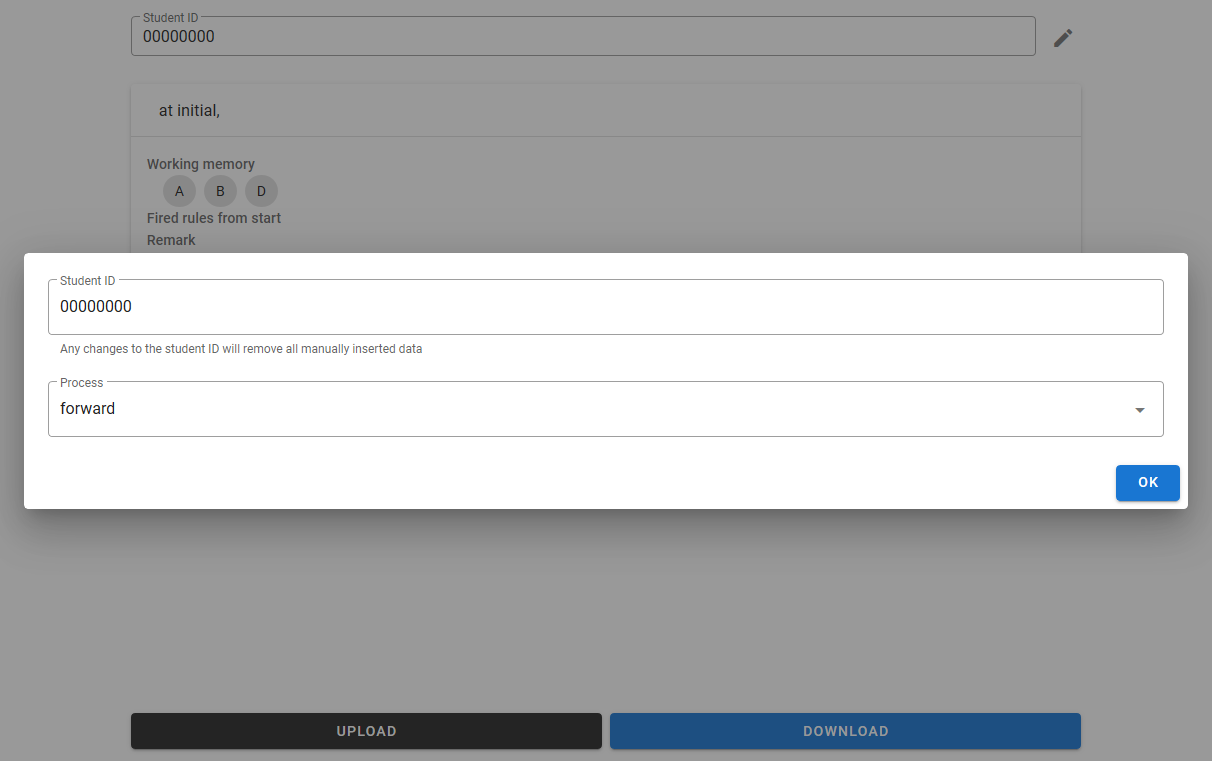
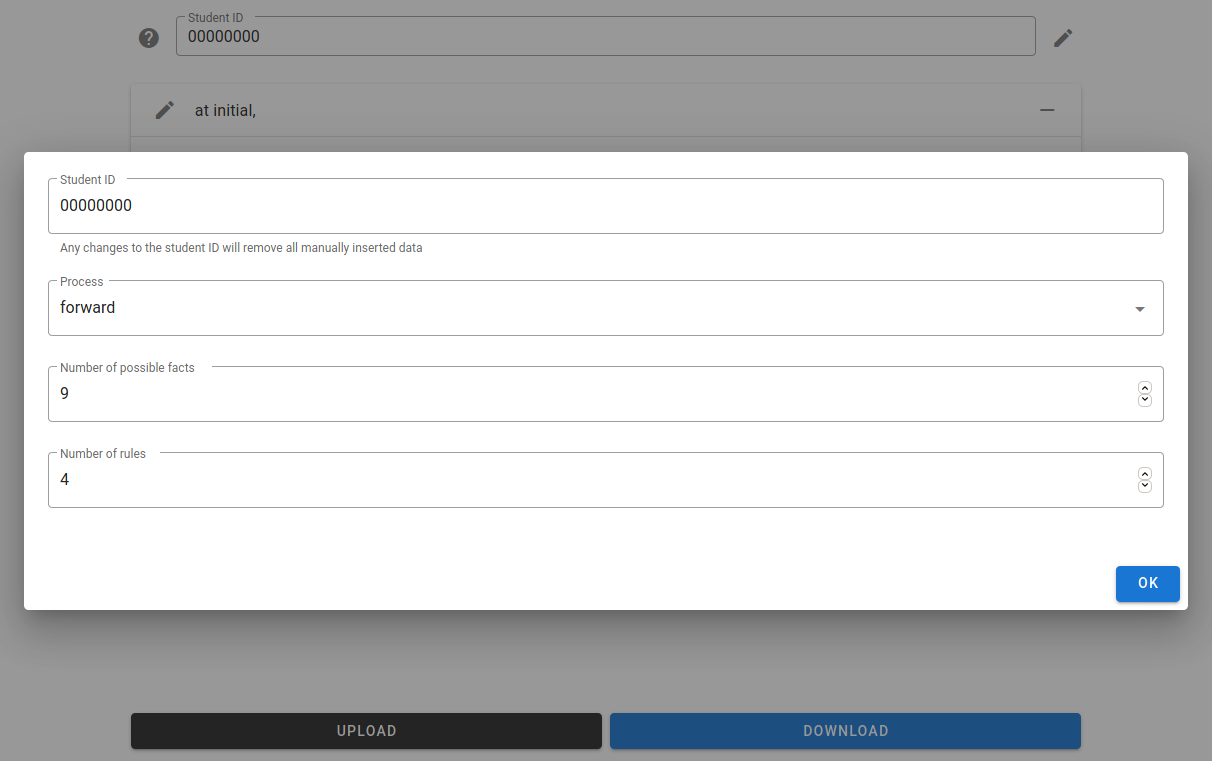
update forward/backward chaining platform for editable initial, number of facts, and number of rules

diff --git a/forward-backward-chaining/index.html b/forward-backward-chaining/index.html
@@ -1,1 +1,1 @@
-<!DOCTYPE html><html><head> <meta charset="utf-8"> <link href="https://fonts.googleapis.com/css?family=Roboto:100,300,400,500,700,900" rel="stylesheet"> <link href="https://cdn.jsdelivr.net/npm/@mdi/font@5.x/css/materialdesignicons.min.css" rel="stylesheet"> <link href="https://cdn.jsdelivr.net/npm/vuetify@2.x/dist/vuetify.min.css" rel="stylesheet"> <meta name="viewport" content="width=device-width, initial-scale=1, maximum-scale=1, user-scalable=no, minimal-ui"> <title>Forward/Backward chaining</title></head><body> <div id="app"> <v-app> <v-main> <v-container fluid style="width: 100vw; height: 100vh" class="d-flex flex-column align-center"> <v-sheet width="80%" height="100%" class="d-flex flex-column"> <v-row class="flex-grow-0" no-gutters> <v-col> <v-text-field label="Student ID" v-model="studentId" readonly outlined hide-details flat dense class="align-center"> <template v-slot:append-outer> <v-btn icon @click="studentId_overlay=true" title="edit settings"><v-icon>mdi-pencil</v-icon></v-btn> </template> <template v-slot:prepend> <v-btn icon href="./help" target="_blank" title="documentation"><v-icon>mdi-help-circle</v-icon></v-btn> </template> </v-text-field> </v-col> </v-row> <v-row class="" style="overflow:auto"> <v-col> <template v-for="d,i in data"> <v-row :key="i"><v-col> <v-card> <v-card-title class="subtitle-1 py-0"> <v-btn icon title="edit this step" @click="edit_data.index=i; edit_data.overlay=true" v-if="i !==0 || initial.editable"><v-icon>mdi-pencil</v-icon></v-btn> <v-col>{{get_data_label(i)}}</v-col> <v-btn icon title="remove this step" @click="data.splice(i,1)" v-if="i !==0 || initial.editable"><v-icon>mdi-minus</v-icon></v-btn> </v-card-title> <v-divider></v-divider> <v-card-text> <template v-for="el,ei in data_details" v-if="el.available.includes(process.value)"> <v-row :key="`${i}-${ei}`" no-gutters><v-col class="subtitle-2">{{el.label}}</v-col></v-row> <v-row v-if="el.type.includes('text')" no-gutters> <v-col class="pl-3">{{d[ei]}}</v-col> </v-row> <v-row v-if="el.type.includes('choice')" no-gutters> <v-col class="pl-3"> <v-chip class="mx-1" v-for="val,vi in d[ei]" :key="`${i}-${ei}-${vi}`">{{val}}</v-chip> </v-col> </v-row> <template v-if="el.type=='edit-edit pairs'"> <v-row v-for="val,vi in d[ei]" :key="`${i}-${ei}-${vi}`"> <v-col v-if="el.labelFunction" md="2" class="text-end my-0 py-1">{{el.labelFunction(vi)}}</v-col> <v-col v-if="el.displayFunction" class="my-0 py-1">{{el.displayFunction(val)}}</v-col> </v-row> </template> </template> </v-card-text> </v-card> </v-col></v-row> <v-row><v-col><v-btn block @click="insert_new_data_entry(i+1)"><v-icon>mdi-plus</v-icon></v-btn></v-col></v-row> </template> </v-col> </v-row> <v-row class="flex-grow-0" no-gutters> <v-col class="mr-2"><v-btn block color="" @click="upload.overlay=true" dark>Upload</v-btn></v-col> <v-col><v-btn block color="primary" @click="download">Download</v-btn></v-col> </v-row> </v-sheet> <v-dialog v-model="studentId_overlay"> <v-card> <v-card-title></v-card-title> <v-card-text> <v-text-field class="mb-4" label="Student ID" v-model="studentId" outlined persistent-hint hint="Any changes to the student ID will remove all manually inserted data"></v-text-field> <v-select label="Process" v-model="process.value" :items="process.options" hide-details outlined></v-select> </v-card-text> <v-card-actions> <v-spacer></v-spacer> <v-btn color="primary" @click="studentId_overlay=false">Ok</v-btn> </v-card-actions> </v-card> </v-dialog> <v-dialog v-model="edit_data.overlay"> <v-card v-if="edit_data.index < data.length"> <v-card-title>{{get_data_label(edit_data.index)}}</v-card-title> <v-card-text> <template v-for="el,ei in data_details" v-if="el.available.includes(process.value)"> <v-row> <v-col cols="auto" class="subtitle-2">{{el.label}}</v-col> <v-col> <v-tooltip right> <template v-slot:activator="{on, attrs}"> <v-icon icon v-on="on" v-bind="attrs" small>mdi-help-circle-outline</v-icon> </template> <span>{{el.docstring}}</span> </v-tooltip> </v-col> </v-row> <v-text-field v-if="el.type=='text'" v-model="data[edit_data.index][ei]" outlined hide-details solo flat></v-text-field> <v-textarea v-if="el.type=='textarea'" v-model="data[edit_data.index][ei]" outlined hide-details solo flat></v-textarea> <v-select v-if="el.type=='unrepeatable choice'" v-model="data[edit_data.index][ei]" :items="el.options" multiple hide-details outlined deletable-chips chips solo flat></v-select> <template v-if="el.type=='repeatable choice'"> <v-row v-for="ci in data[edit_data.index][ei].length" :key="`editdata-${ei}-${ci}`" no-gutters> <v-col><v-select :items="el.options" v-model="data[edit_data.index][ei][ci-1]" hide-details outlined solo flat dense class="align-center"> <template v-slot:append-outer> <v-btn icon @click="data[edit_data.index][ei].splice(ci-1,1)"><v-icon>mdi-minus</v-icon></v-btn> </template> <template v-slot:prepend> <v-btn icon @click="data[edit_data.index][ei].splice(ci-1,0,el.options[0])"><v-icon>mdi-plus</v-icon></v-btn> </template> </v-select></v-col> </v-row> <v-row><v-col><v-btn block @click="data[edit_data.index][ei].push(el.options[0])"><v-icon>mdi-plus</v-icon></v-btn></v-col></v-row> </template> <template v-if="el.type=='edit-edit pairs'"> <v-row v-for="ci in data[edit_data.index][ei].length" :key="`editdata-${ei}-${ci}`"> <v-col v-if="el.labelFunction" md="2" lg="1" class="text-end">{{el.labelFunction(ci-1)}}</v-col> <v-col v-for="indivType,ii in el.types" class="my-0 py-1" :key="`editdata-${ei}-${ci}-${ii}`"> <v-select v-if="indivType.includes('choice')" :items="el.options[ii]" v-model="data[edit_data.index][ei][ci-1][ii]" hide-details outlined solo flat dense class="align-center"> <template v-slot:prepend v-if="el.pretext.length > 0 && ii < el.pretext.length"> <v-col class="ma-0 pa-0">{{el.pretext[ii]}}</v-col> </template> </v-select> </v-col> <v-col cols="auto"><v-btn icon @click="data[edit_data.index][ei].splice(ci-1,1)"><v-icon>mdi-minus</v-icon></v-btn></v-col> </v-row> <v-row><v-col><v-btn block @click="data[edit_data.index][ei].push(el.options.map(x=> x[0]))"><v-icon>mdi-plus</v-icon></v-btn></v-col></v-row> </template> </template> </v-card-text> </v-card> </v-dialog> <v-dialog v-model="upload.overlay"> <v-card> <v-card-title></v-card-title> <v-card-text> <v-alert type="info">You only need this function if the website has crashed.</v-alert> <v-row><v-col>This function is only for uploading your previously downloaded files.</v-col></v-row> <v-file-input v-model="upload.file" label="Upload file"></v-file-input> <v-alert type="error" v-if="upload.error.length > 0">{{upload.error}}</v-alert> </v-card-text> <v-card-actions> <v-spacer></v-spacer> <v-btn color="primary" @click="upload_file">Upload</v-btn> </v-card-actions> </v-card> </v-dialog> </v-container> </v-main> </v-app> </div><script src="https://cdn.jsdelivr.net/npm/vue@2.x/dist/vue.js"></script> <script src="https://cdn.jsdelivr.net/npm/vuetify@2.x/dist/vuetify.js"></script> <script>let vm=new Vue({el: '#app', vuetify: new Vuetify(), data:{studentId: "00000000", studentId_overlay: true, process:{options: ["forward", "backward"], value: "forward"}, data: [], data_details: [{label: "Working memory", type: "unrepeatable choice", /* unrepeated choice/repeatable choice/textarea/text */ docstring: "All the facts in the working memory of current step", options: ['A','B','C','D','E','F','G','H','I','J','K','L','M','N','P','Q','R','W'], available: ["forward", "backward"]},{label: "Fired rules from start", type: "repeatable choice", docstring: "Rules fired since the beginning of the process in sequence", options: ["rule 1", "rule 2", "rule 3", "rule 4", "rule 5", "rule 6", "rule 7", "rule 8", "rule 9", "rule 10"], available: ["forward", "backward"]},{label: "Goals/Subgoals", docstring: "Goal and subgoals (with their respective rule) until this step. Achieved subgoals should be removed", type: "edit-edit pairs", movable: true, types: ["choice", "choice"], options: [ ['A','B','C','D','E','F','G','H','I','J','K','L','M','N','P','Q','R','W'], ["", "rule 1", "rule 2", "rule 3", "rule 4", "rule 5", "rule 6", "rule 7", "rule 8", "rule 9", "rule 10"]], labelFunction: (x)=> x==0 ? "Goal" : `Subgoal ${x}`, displayFunction: (x)=> `${x[0]}${x[1]=="" ? '' : '(provided by ' + x[1] + ')'}`, pretext: ["", "from"], available: ["backward"]},{label: "Remark", docstring: "Can be used for any additional explanation", type: "textarea", available: ["forward", "backward"]}], index_label: "Step", default_values: [ [], [], [], ""], initial:{values: [ ["B","C","F","K"], [], [], ""], index:{as: "text", /* label/hidden/text */ text: "at initial,"}, editable: false}, edit_data:{overlay: false, index: 0}, upload:{overlay: false, file: undefined, error: ""}}, mounted: function (){this.init_data();}, watch:{studentId: function (){console.log("Student ID updated"); this.init_data();}, "edit_data.overlay": function (newVal){if (!newVal){this.data_details.forEach((el,ei)=>{if (el.type=="unrepeatable choice"){this.data[this.edit_data.index][ei].sort();}});}}}, computed:{sd: function (){return this.studentId;}}, methods:{init_data: function (){this.data=[]; this.data.push( JSON.parse( JSON.stringify( this.initial.values ) ) );}, get_data_label: function (index){let val=""; if (index==0 && this.initial.index.as !=="label"){if (this.initial.index.as=="text"){val=this.initial.index.text;}}else{val=`${this.index_label}${index}`;}return val;}, insert_new_data_entry: function (i){this.data.splice(i, 0, JSON.parse(JSON.stringify(this.data[i-1]))); this.$nextTick().then(()=>{this.edit_data.index=i; this.edit_data.overlay=true;});}, download: function (){let dldata={studentId: this.studentId, process: this.process.value, data_details: this.data_details, data: JSON.parse(JSON.stringify(this.data))}; let j=document.createElement("a"); j.download="forwardbackwardchaining.json"; j.href=URL.createObjectURL(new Blob([JSON.stringify(dldata)])); j.click();}, upload_file: function (){if (this.upload.file !==undefined){const reader=new FileReader(); reader.onload=(ev)=>{try{let fileContent=JSON.parse(ev.target.result); this.studentId=fileContent.studentId; this.$nextTick().then(()=>{this.process.value=fileContent.process; this.data=fileContent.data.map(x=> x.slice(0, this.default_values.length));}).then(()=>{this.upload.overlay=false;}).catch(err=>{this.upload.error=err.message;});}catch (err){this.upload.error=err.message;}}; reader.readAsText(this.upload.file);}}}}) </script></body></html>
+<!DOCTYPE html><html><head> <meta charset="utf-8"> <link href="https://fonts.googleapis.com/css?family=Roboto:100,300,400,500,700,900" rel="stylesheet"> <link href="https://cdn.jsdelivr.net/npm/@mdi/font@5.x/css/materialdesignicons.min.css" rel="stylesheet"> <link href="https://cdn.jsdelivr.net/npm/vuetify@2.x/dist/vuetify.min.css" rel="stylesheet"> <meta name="viewport" content="width=device-width, initial-scale=1, maximum-scale=1, user-scalable=no, minimal-ui"> <title>Forward/Backward chaining</title></head><body> <div id="app"> <v-app> <v-main> <v-container fluid style="width: 100vw; height: 100vh" class="d-flex flex-column align-center"> <v-sheet width="80%" height="100%" class="d-flex flex-column"> <v-row class="flex-grow-0" no-gutters> <v-col> <v-text-field label="Student ID" v-model="studentId" readonly outlined hide-details flat dense class="align-center"> <template v-slot:append-outer> <v-btn icon @click="studentId_overlay=true" title="edit settings"><v-icon>mdi-pencil</v-icon></v-btn> </template> <template v-slot:prepend> <v-btn icon href="./help" target="_blank" title="documentation"><v-icon>mdi-help-circle</v-icon></v-btn> </template> </v-text-field> </v-col> </v-row> <v-row class="" style="overflow:auto"> <v-col> <template v-for="d,i in data"> <v-row :key="i"><v-col> <v-card> <v-card-title class="subtitle-1 py-0"> <v-btn icon title="edit this step" @click="edit_data.index=i; edit_data.overlay=true" v-if="i !==0 || initial.editable"><v-icon>mdi-pencil</v-icon></v-btn> <v-col>{{get_data_label(i)}}</v-col> <v-btn icon title="remove this step" @click="data.splice(i,1)" v-if="i !==0 || initial.editable"><v-icon>mdi-minus</v-icon></v-btn> </v-card-title> <v-divider></v-divider> <v-card-text> <template v-for="el,ei in data_details" v-if="el.available.includes(process.value)"> <v-row :key="`${i}-${ei}`" no-gutters><v-col class="subtitle-2">{{el.label}}</v-col></v-row> <v-row v-if="el.type.includes('text')" no-gutters> <v-col class="pl-3">{{d[ei]}}</v-col> </v-row> <v-row v-if="el.type.includes('choice')" no-gutters> <v-col class="pl-3"> <v-chip class="mx-1" v-for="val,vi in d[ei]" :key="`${i}-${ei}-${vi}`">{{val}}</v-chip> </v-col> </v-row> <template v-if="el.type=='edit-edit pairs'"> <v-row v-for="val,vi in d[ei]" :key="`${i}-${ei}-${vi}`"> <v-col v-if="el.labelFunction" md="2" class="text-end my-0 py-1">{{el.labelFunction(vi)}}</v-col> <v-col v-if="el.displayFunction" class="my-0 py-1">{{el.displayFunction(val)}}</v-col> </v-row> </template> </template> </v-card-text> </v-card> </v-col></v-row> <v-row><v-col><v-btn block @click="insert_new_data_entry(i+1)"><v-icon>mdi-plus</v-icon></v-btn></v-col></v-row> </template> </v-col> </v-row> <v-row class="flex-grow-0" no-gutters> <v-col class="mr-2"><v-btn block color="" @click="upload.overlay=true" dark>Upload</v-btn></v-col> <v-col><v-btn block color="primary" @click="download">Download</v-btn></v-col> </v-row> </v-sheet> <v-dialog v-model="studentId_overlay"> <v-card> <v-card-title></v-card-title> <v-card-text> <v-text-field class="mb-4" label="Student ID" v-model="studentId" outlined persistent-hint hint="Any changes to the student ID will remove all manually inserted data"></v-text-field> <v-select label="Process" v-model="process.value" :items="process.options" outlined></v-select> <v-text-field label="Number of possible facts" v-model="settings.factSize" type="number" outlined :rules="[check_more_than_one]" min="1"></v-text-field> <v-text-field label="Number of rules" v-model="settings.ruleSize" type="number" outlined :rules="[check_more_than_one]" min="1"></v-text-field> </v-card-text> <v-card-actions> <v-spacer></v-spacer> <v-btn color="primary" @click="studentId_overlay=false">Ok</v-btn> </v-card-actions> </v-card> </v-dialog> <v-dialog v-model="edit_data.overlay"> <v-card v-if="edit_data.index < data.length"> <v-card-title>{{get_data_label(edit_data.index)}}</v-card-title> <v-card-text> <template v-for="el,ei in data_details" v-if="el.available.includes(process.value)"> <v-row> <v-col cols="auto" class="subtitle-2">{{el.label}}</v-col> <v-col> <v-tooltip right> <template v-slot:activator="{on, attrs}"> <v-icon icon v-on="on" v-bind="attrs" small>mdi-help-circle-outline</v-icon> </template> <span>{{el.docstring}}</span> </v-tooltip> </v-col> </v-row> <v-text-field v-if="el.type=='text'" v-model="data[edit_data.index][ei]" outlined hide-details solo flat></v-text-field> <v-textarea v-if="el.type=='textarea'" v-model="data[edit_data.index][ei]" outlined hide-details solo flat></v-textarea> <v-select v-if="el.type=='unrepeatable choice'" v-model="data[edit_data.index][ei]" :items="el.options" multiple hide-details outlined deletable-chips chips solo flat></v-select> <template v-if="el.type=='repeatable choice'"> <v-row v-for="ci in data[edit_data.index][ei].length" :key="`editdata-${ei}-${ci}`" no-gutters> <v-col><v-select :items="el.options" v-model="data[edit_data.index][ei][ci-1]" hide-details outlined solo flat dense class="align-center"> <template v-slot:append-outer> <v-btn icon @click="data[edit_data.index][ei].splice(ci-1,1)"><v-icon>mdi-minus</v-icon></v-btn> </template> <template v-slot:prepend> <v-btn icon @click="data[edit_data.index][ei].splice(ci-1,0,el.options[0])"><v-icon>mdi-plus</v-icon></v-btn> </template> </v-select></v-col> </v-row> <v-row><v-col><v-btn block @click="data[edit_data.index][ei].push(el.options[0])"><v-icon>mdi-plus</v-icon></v-btn></v-col></v-row> </template> <template v-if="el.type=='edit-edit pairs'"> <v-row v-for="ci in data[edit_data.index][ei].length" :key="`editdata-${ei}-${ci}`"> <v-col v-if="el.labelFunction" md="2" lg="1" class="text-end">{{el.labelFunction(ci-1)}}</v-col> <v-col v-for="indivType,ii in el.types" class="my-0 py-1" :key="`editdata-${ei}-${ci}-${ii}`"> <v-select v-if="indivType.includes('choice')" :items="el.options[ii]" v-model="data[edit_data.index][ei][ci-1][ii]" hide-details outlined solo flat dense class="align-center"> <template v-slot:prepend v-if="el.pretext.length > 0 && ii < el.pretext.length"> <v-col class="ma-0 pa-0">{{el.pretext[ii]}}</v-col> </template> </v-select> </v-col> <v-col cols="auto"><v-btn icon @click="data[edit_data.index][ei].splice(ci-1,1)"><v-icon>mdi-minus</v-icon></v-btn></v-col> </v-row> <v-row><v-col><v-btn block @click="data[edit_data.index][ei].push(el.options.map(x=> x[0]))"><v-icon>mdi-plus</v-icon></v-btn></v-col></v-row> </template> </template> </v-card-text> </v-card> </v-dialog> <v-dialog v-model="upload.overlay"> <v-card> <v-card-title></v-card-title> <v-card-text> <v-alert type="info">You only need this function if the website has crashed.</v-alert> <v-row><v-col>This function is only for uploading your previously downloaded files.</v-col></v-row> <v-file-input v-model="upload.file" label="Upload file"></v-file-input> <v-alert type="error" v-if="upload.error.length > 0">{{upload.error}}</v-alert> </v-card-text> <v-card-actions> <v-spacer></v-spacer> <v-btn color="primary" @click="upload_file">Upload</v-btn> </v-card-actions> </v-card> </v-dialog> </v-container> </v-main> </v-app> </div><script src="https://cdn.jsdelivr.net/npm/vue@2.x/dist/vue.js"></script> <script src="https://cdn.jsdelivr.net/npm/vuetify@2.x/dist/vuetify.js"></script> <script>let vm=new Vue({el: '#app', vuetify: new Vuetify(), data:{studentId: "00000000", studentId_overlay: true, process:{options: ["forward", "backward"], value: "forward"}, settings:{factSize: 9, ruleSize: 4}, data: [], index_label: "Step", default_values: [ [], [], [], ""], initial:{values: [ ["A","B","D"], [], [], ""], index:{as: "text", /* label/hidden/text */ text: "at initial,"}, editable: true}, edit_data:{overlay: false, index: 0}, upload:{overlay: false, file: undefined, error: ""}}, mounted: function (){this.init_data();}, watch:{studentId: function (){console.log("Student ID updated"); this.init_data();}, "edit_data.overlay": function (newVal){if (!newVal){this.data_details.forEach((el,ei)=>{if (el.type=="unrepeatable choice"){this.data[this.edit_data.index][ei].sort();}});}},}, computed:{sd: function (){return this.studentId;}, data_details: function (){try{return [{label: "Working memory", type: "unrepeatable choice", /* unrepeated choice/repeatable choice/textarea/text */ docstring: "All the facts in the working memory of current step", options: [...Array(parseInt(this.settings.factSize)).keys()].map(this.num_to_alph), available: ["forward", "backward"]},{label: "Fired rules from start", type: "repeatable choice", docstring: "Rules fired since the beginning of the process in sequence", options: [...Array(parseInt(this.settings.ruleSize)).keys()].map(x=> `rule ${x+1}`), available: ["forward", "backward"]},{label: "Goals/Subgoals", docstring: "Goal and subgoals (with their respective rule) until this step. Achieved subgoals should be removed", type: "edit-edit pairs", movable: true, types: ["choice", "choice"], options: [ ['A','B','C','D','E','F','G','H','I'], [""].concat([...Array(parseInt(this.settings.ruleSize)).keys()].map(x=> `rule ${x+1}`))], labelFunction: (x)=> x==0 ? "Goal" : `Subgoal ${x}`, displayFunction: (x)=> `${x[0]}${x[1]=="" ? '' : '(provided by ' + x[1] + ')'}`, pretext: ["", "from"], available: ["backward"]},{label: "Remark", docstring: "Can be used for any additional explanation", type: "textarea", available: ["forward", "backward"]}];}catch(error){return []}}}, methods:{init_data: function (){this.data=[]; this.data.push( JSON.parse( JSON.stringify( this.initial.values ) ) );}, num_to_alph: function (num){/* https://stackoverflow.com/questions/45787459/convert-number-to-alphabet-string-javascript */ let remainder=num % 26; let quotient=Math.floor(num/26); return (quotient > 26 ? this.num_to_alph(quotient) : quotient==0 ? "" : String.fromCharCode(65+quotient-1)) + String.fromCharCode(65+remainder);}, get_data_label: function (index){let val=""; if (index==0 && this.initial.index.as !=="label"){if (this.initial.index.as=="text"){val=this.initial.index.text;}}else{val=`${this.index_label}${index}`;}return val;}, check_more_than_one: function (val){return val > 0 ? true : "Any value less than 1 will be set to 1";}, insert_new_data_entry: function (i){this.data.splice(i, 0, JSON.parse(JSON.stringify(this.data[i-1]))); this.$nextTick().then(()=>{this.edit_data.index=i; this.edit_data.overlay=true;});}, download: function (){let dldata={studentId: this.studentId, process: this.process.value, data_details: this.data_details, data: JSON.parse(JSON.stringify(this.data))}; let j=document.createElement("a"); j.download="forward-backward-chaining.json"; j.href=URL.createObjectURL(new Blob([JSON.stringify(dldata)])); j.click();}, upload_file: function (){if (this.upload.file !==undefined){const reader=new FileReader(); reader.onload=(ev)=>{try{let fileContent=JSON.parse(ev.target.result); this.studentId=fileContent.studentId; this.$nextTick().then(()=>{this.process.value=fileContent.process; this.data=fileContent.data;}).then(()=>{this.upload.overlay=false;}).catch(err=>{this.upload.error=err.message;});}catch (err){this.upload.error=err.message;}}; reader.readAsText(this.upload.file);}}}}); </script></body></html>

diff --git a/forward-backward-chaining/help.html b/forward-backward-chaining/help.html
@@ -20,6 +20,7 @@
                 <v-list-item-group>
                   <v-list-item href="#student-id">Set your student ID</v-list-item>
                   <v-list-item href="#select-process">Select process to conduct</v-list-item>
+                  <v-list-item href="#set-parameter">Set parameters of the problem</v-list-item>
                   <v-list-item href="#edit-student-id-process">If my student ID or process is wrong</v-list-item>
                   <v-list-item href="#initial-condition">Initial conditions</v-list-item>
                   <v-list-item href="#next-step">Add a step</v-list-item>
@@ -41,7 +42,7 @@
                 <v-card-text>
                   <svg width="100%" :view-box.camel="viewBox">
                     <image href="./img/01.png" :width="displayImg.width" />
-                    <rect :x="convert(40)" :y="convert(265)" :width="convert(1175-40)" :height="convert(365-265)" :stroke="annotation.box.color" fill="none" :stroke-width="annotation.box.strokeWidth"/>
+                    <rect :x="convert(40)" :y="convert(165)" :width="convert(1175-40)" :height="convert(262-165)" :stroke="annotation.box.color" fill="none" :stroke-width="annotation.box.strokeWidth"/>
                     <rect x="0" y="0" :width="displayImg.width" :height="displayImg.height" fill="none" :stroke="imgFrame.color" :stroke-width="imgFrame.strokeWidth"/>
                   </svg>
                   <v-alert elevation="2" border="left" dark :color="msg.alert">Any changes to the student ID will reset the data on the page. Double and triple check to make sure it is correct and do not require changes later.</v-alert>
@@ -53,11 +54,26 @@
                 <v-card-text>
                   <svg width="100%" :view-box.camel="viewBox">
                     <image href="./img/01.png" :width="displayImg.width" />
-                    <rect :x="convert(40)" :y="convert(370)" :width="convert(1175-40)" :height="convert(450-370)" :stroke="annotation.box.color" fill="none" :stroke-width="annotation.box.strokeWidth"/>
+                    <rect :x="convert(40)" :y="convert(268)" :width="convert(1175-40)" :height="convert(348-268)" :stroke="annotation.box.color" fill="none" :stroke-width="annotation.box.strokeWidth"/>
                     <rect x="0" y="0" :width="displayImg.width" :height="displayImg.height" fill="none" :stroke="imgFrame.color" :stroke-width="imgFrame.strokeWidth"/>
                   </svg>
                   <v-alert elevation="2" border="left" colored-border :color="msg.process">Select forward or backward chaining process. This can be modified easily later.</v-alert>
                   <v-alert elevation="2" border="left" colored-border :color="msg.process">Click <v-btn color="primary">OK</v-btn> to start providing your solution.</v-alert>
+                </v-card-text>
+              </v-card>
+
+              <v-card flat id="set-parameter">
+                <v-card-title>Set the parameters of the problem <v-spacer></v-spacer> <v-btn href="#menu" icon><v-icon>mdi-format-list-bulleted</v-icon></v-btn></v-card-title>
+                <v-card-text>
+                  <svg width="100%" :view-box.camel="viewBox">
+                    <image href="./img/01.png" :width="displayImg.width" />
+                    <rect :x="convert(40)" :y="convert(355)" :width="convert(1175-40)" :height="convert(520-355)" :stroke="annotation.box.color" fill="none" :stroke-width="annotation.box.strokeWidth"/>
+                    <rect x="0" y="0" :width="displayImg.width" :height="displayImg.height" fill="none" :stroke="imgFrame.color" :stroke-width="imgFrame.strokeWidth"/>
+                  </svg>
+                  <v-alert elevation="2" border="left" colored-border :color="msg.process">Select the number of possible facts in your problem.</v-alert>
+                  <v-alert elevation="2" border="left" dark :color="msg.info">The facts will be rendered as alphabets. For example, if you specify the number of possible facts to be 5, the facts you get are A, B, C, D, E.</v-alert>
+                  <v-alert elevation="2" border="left" colored-border :color="msg.process">Select the number of rules in your problem.</v-alert>
+                  <v-alert elevation="2" border="left" dark :color="msg.info">The rules will be rendered starting from rule 1, rule 2, and so forth.</v-alert>
                 </v-card-text>
               </v-card>
 
